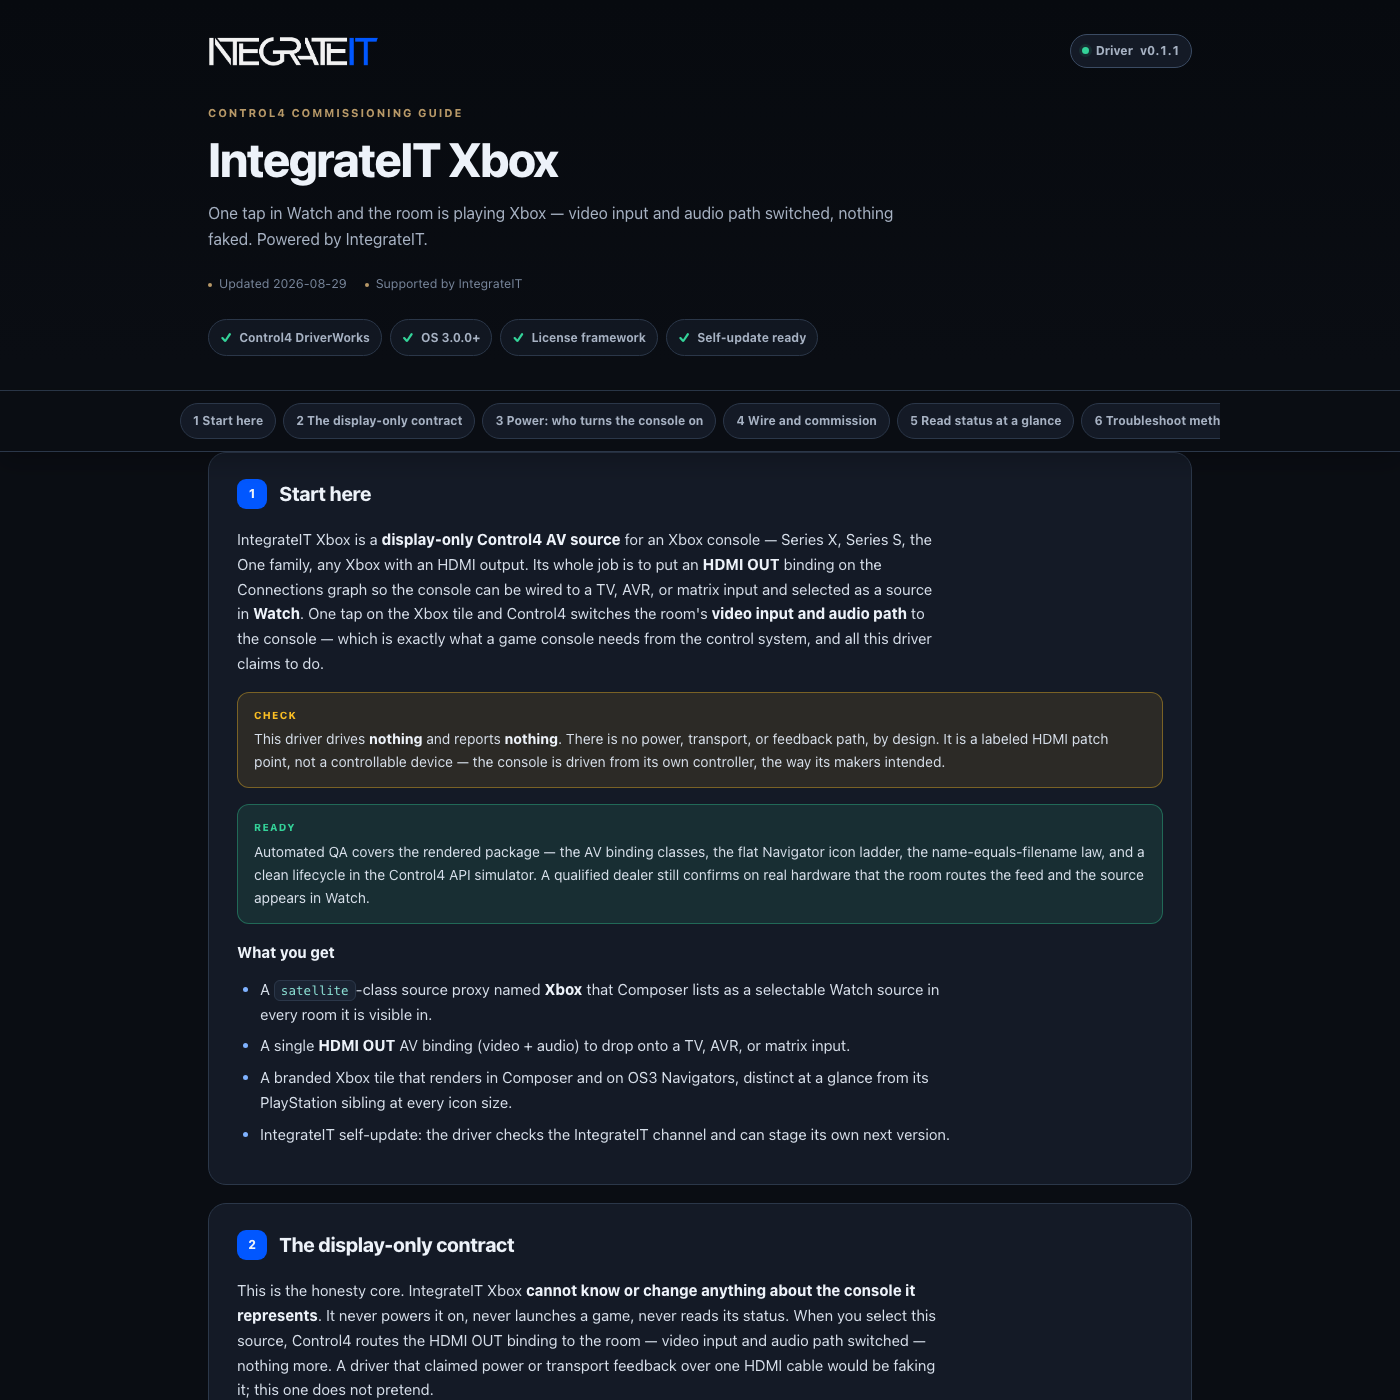
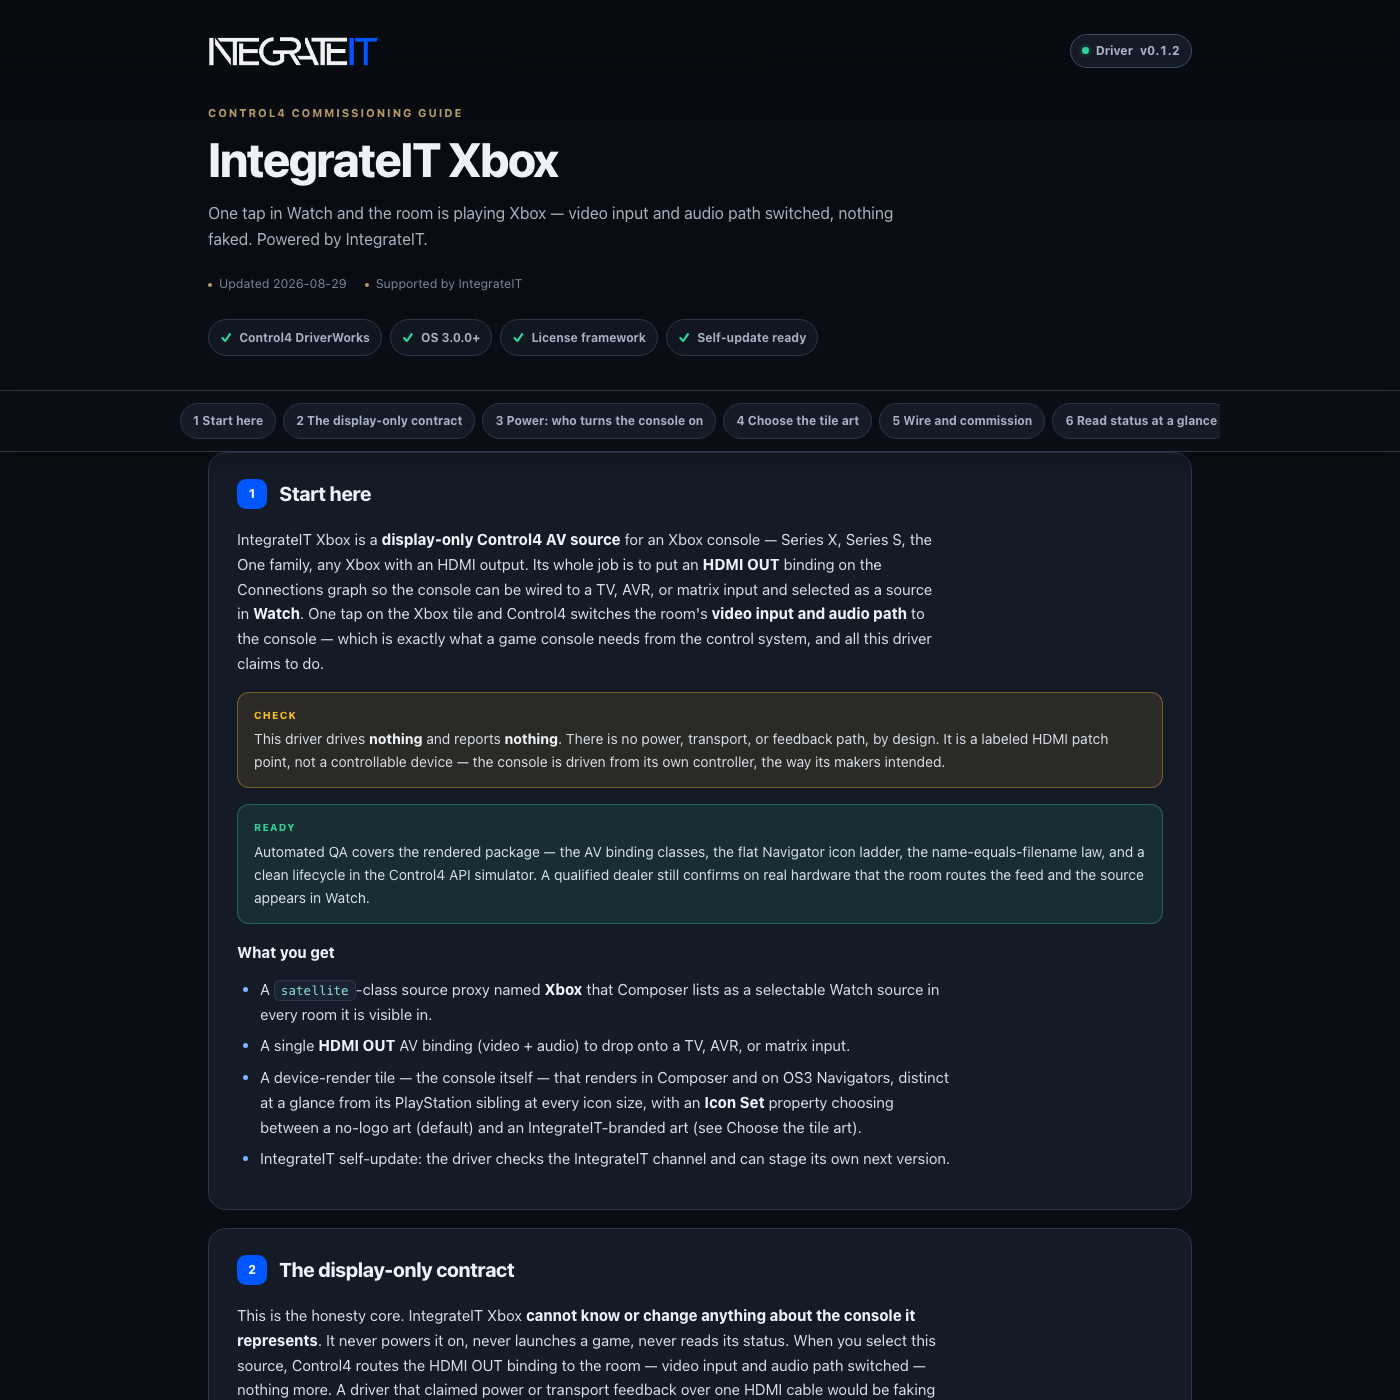
control4: publish driver channel (integrateit_xbox 0.1.2)

Changed region(s): [[0.1536, 0.86, 0.6757, 1.0], [0.1843, 0.7679, 0.6757, 0.8293], [0.5529, 0.2764, 0.86, 0.3071]]

diff --git a/control4/integrateit_xbox/documentation.html b/control4/integrateit_xbox/documentation.html
@@ -179,7 +179,7 @@ td code{white-space:normal}
     <div class="wrap">
       <div class="brandbar">
[1 lines of base64/hex data omitted]
-        <span class="version"><span class="word">Driver</span> v0.1.1</span>
+        <span class="version"><span class="word">Driver</span> v0.1.2</span>
       </div>
       <p class="eyebrow">Control4 commissioning guide</p>
       <h1>IntegrateIT Xbox</h1>
@@ -198,7 +198,7 @@ td code{white-space:normal}
   </header>
 
   <div class="toc-wrap">
-    <nav class="toc wrap" aria-label="Documentation sections"><a href="#overview">1 Start here</a><a href="#one-way">2 The display-only contract</a><a href="#power">3 Power: who turns the console on</a><a href="#setup">4 Wire and commission</a><a href="#status">5 Read status at a glance</a><a href="#troubleshooting">6 Troubleshoot methodically</a><a href="#trust">7 Ownership, privacy, and licensing</a><a href="#reference">R Reference</a><a href="#licensing">L Licensing</a><a href="#updates">U Automatic updates</a><a href="#diagnostics">D Diagnostics and self-test</a><a href="#changelog">V Version history</a></nav>
+    <nav class="toc wrap" aria-label="Documentation sections"><a href="#overview">1 Start here</a><a href="#one-way">2 The display-only contract</a><a href="#power">3 Power: who turns the console on</a><a href="#icons">4 Choose the tile art</a><a href="#setup">5 Wire and commission</a><a href="#status">6 Read status at a glance</a><a href="#troubleshooting">7 Troubleshoot methodically</a><a href="#trust">8 Ownership, privacy, and licensing</a><a href="#reference">R Reference</a><a href="#licensing">L Licensing</a><a href="#updates">U Automatic updates</a><a href="#diagnostics">D Diagnostics and self-test</a><a href="#changelog">V Version history</a></nav>
   </div>
 
   <main class="wrap">
@@ -211,7 +211,7 @@ td code{white-space:normal}
   <ul>
     <li>A <code>satellite</code>-class source proxy named <b>Xbox</b> that Composer lists as a selectable Watch source in every room it is visible in.</li>
     <li>A single <b>HDMI OUT</b> AV binding (video + audio) to drop onto a TV, AVR, or matrix input.</li>
-    <li>A branded Xbox tile that renders in Composer and on OS3 Navigators, distinct at a glance from its PlayStation sibling at every icon size.</li>
+    <li>A device-render tile — the console itself — that renders in Composer and on OS3 Navigators, distinct at a glance from its PlayStation sibling at every icon size, with an <b>Icon Set</b> property choosing between a no-logo art (default) and an IntegrateIT-branded art (see Choose the tile art).</li>
     <li>IntegrateIT self-update: the driver checks the IntegrateIT channel and can stage its own next version.</li>
   </ul>
 </section>
@@ -232,8 +232,22 @@ td code{white-space:normal}
   <p>The practical room recipe: leave the console in Sleep, tap <b>Xbox</b> in Watch (room video + audio switch to it), pick up the controller and press the Xbox button. Two presses, and the second one is the one gamers already do.</p>
 </section>
 
+<section class="card" id="icons" data-card="icons">
+  <h2><span class="n">4</span> Choose the tile art</h2>
+  <p>The driver ships <b>two tile arts</b> and an <b>Icon Set</b> property to pick between them:</p>
+  <ul>
+    <li><b>Device Only (No Logo)</b> — the default. Every tile is just the console itself on the dark IntegrateIT ground.</li>
+    <li><b>IntegrateIT Branded</b> — the same console render with the IntegrateIT wordmark added on the large (300 px and up) tiles. Smaller tiles are identical in both sets — a wordmark shrunk to a watch-tile size would be unreadable, so there is nothing to switch down there.</li>
+  </ul>
+  <p>Changing the property swaps the live tile files in place, inside the driver's own package, through Control4's File Interface — no re-install, no different <code>.c4z</code>. Two things to know:</p>
+  <ol class="steps">
+    <li><b>Navigator caches are stubborn.</b> After switching, run <b>File ▸ Refresh Navigators</b>; force-close the mobile app or reboot T3–T4 touchscreens if a tile lingers. Same refresh order as any icon change.</li>
+    <li><b>The choice survives driver updates.</b> An update re-extracts the package (which resets the tile files to the shipped set), and the driver re-asserts your chosen set on every boot — so the property stays true without anyone remembering it exists.</li>
+  </ol>
+</section>
+
 <section class="card" id="setup" data-card="setup">
-  <h2><span class="n">4</span> Wire and commission</h2>
+  <h2><span class="n">5</span> Wire and commission</h2>
   <ol class="steps">
     <li>Physically connect the Xbox's HDMI output to the room's input — a TV input, an AVR input, or a <b>matrix input</b> (directly, or through an extender). Note which input it lands on.</li>
     <li>In Composer Pro, add the driver. <b>Keep the <code>.c4z</code> named exactly as shipped</b> — the icon URLs embed the driver name, and a renamed file (a browser's <code>name (1).c4z</code>) loads fine but shows a blank icon.</li>
@@ -245,12 +259,12 @@ td code{white-space:normal}
 </section>
 
 <section class="card" id="status" data-card="status">
-  <h2><span class="n">5</span> Read status at a glance</h2>
-  <p><b>Status</b> shows <code>Idle</code> — there is nothing else for it to report. The standard IntegrateIT properties (Driver Version, self-update, licensing) behave as they do in every IntegrateIT driver; see Reference. No property on this driver reflects the state of the console, because the driver cannot see it.</p>
+  <h2><span class="n">6</span> Read status at a glance</h2>
+  <p><b>Status</b> shows <code>Idle</code>, changing only to confirm an Icon Set switch (with the Navigator refresh reminder) before the next boot returns it to <code>Idle</code>. The standard IntegrateIT properties (Driver Version, self-update, licensing) behave as they do in every IntegrateIT driver; see Reference. No property on this driver reflects the state of the console, because the driver cannot see it.</p>
 </section>
 
 <section class="card" id="troubleshooting" data-card="troubleshooting">
-  <h2><span class="n">6</span> Troubleshoot methodically</h2>
+  <h2><span class="n">7</span> Troubleshoot methodically</h2>
   <ul>
     <li><b>Nothing appears in Watch</b> — the source was never bound. Re-check Connections: the <b>HDMI OUT</b> binding must land on the input the console actually feeds.</li>
     <li><b>Blank / no-signal on selection</b> — an EDID mismatch. Set that matrix input's EDID to <b>4K30</b> or <b>1080p</b>; a Series X pushes 4K60/120 with HDR and can out-run a display or a long HDMI run.</li>
@@ -262,14 +276,15 @@ td code{white-space:normal}
 </section>
 
 <section class="card" id="trust" data-card="trust">
-  <h2><span class="n">7</span> Ownership, privacy, and licensing</h2>
+  <h2><span class="n">8</span> Ownership, privacy, and licensing</h2>
   <p>Nothing leaves the controller. This driver opens no network connection, holds no credentials, and logs nothing about the console — there is nothing for it to send. Licensing runs in the shared IntegrateIT framework: because the driver has no actuating path, <b>no function is license-gated</b> — a missing or invalid key never disables it. Self-update polls the IntegrateIT channel and can stage the next version for a one-click install in Composer.</p>
 <section class="card" id="reference" data-card="reference">
   <h2><span class="n">R</span> Reference</h2>
-  <p>Generated from the driver manifest at build time — always matches this build (v0.1.1).</p>
+  <p>Generated from the driver manifest at build time — always matches this build (v0.1.2).</p>
   <h3>Properties</h3>
   <table>
     <tr><th>Property</th><th>Type</th><th>Default</th><th>Description</th></tr>
+    <tr><td><code>Icon Set</code></td><td>LIST</td><td><code>Device Only (No Logo)</code></td><td>Which Navigator tile art the large sizes use. Device Only (No Logo) shows just the console; IntegrateIT Branded adds the IntegrateIT wordmark on the 300 px and larger tiles (smaller tiles are identical in both sets). After changing: File &gt; Refresh Navigators, then force-close the mobile app / reboot T3-T4 touchscreens if a tile lingers. The choice re-applies itself after every driver update. One of: Device Only (No Logo) · IntegrateIT Branded</td></tr>
   </table>
   <p><b>Standard IntegrateIT properties</b> — licensing, self-update, and diagnostics, auto-injected into every IntegrateIT driver:</p>
   <table>
@@ -368,7 +383,9 @@ td code{white-space:normal}
     <section class="card" id="changelog" data-card="changelog">
   <h2><span class="n">V</span> Version history</h2>
   <div class="chg">
-    <div class="rel"><b>v0.1.1</b> <span class="pill green">current</span><span class="d">2026-08-29</span>
+    <div class="rel"><b>v0.1.2</b> <span class="pill green">current</span><span class="d">2026-08-29</span>
+      <ul><li>New Icon Set property (Composer &gt; driver properties): Device Only (No Logo) — now the default, every tile is just the console — or IntegrateIT Branded (adds the IntegrateIT wordmark on the 300px+ tiles). The switch swaps the live tile files in place through Control4's File Interface (OS 3.3.0 C4Z alias), tells you the Navigator refresh order in Status, and re-asserts your choice after every driver update. Only the large tiles differ; watch-tile sizes are identical device-only art in both sets.</li></ul></div>
+    <div class="rel"><b>v0.1.1</b><span class="d">2026-08-29</span>
       <ul><li>Navigator tile is now the device itself: an original vector render of the Xbox Series X monolith — green vent-dot glow on the top face, power dot, disc slot — replacing the 0.1.0 typographic XBOX mark. No manufacturer logo artwork; xml_version bump forces the Navigator icon refresh.</li></ul></div>
     <div class="rel"><b>v0.1.0</b><span class="d">2026-08-29</span>
       <ul><li>First release. Display-only AV source (branded-av-source template): satellite proxy named "Xbox" + one HDMI OUT binding (HDMI + STEREO), so selecting the console in Watch switches the room's video input and audio path.</li><li>Branded Xbox tile across the full Navigator AV icon ladder (driver-local generator; distinct from the PlayStation sibling at every size).</li><li>Deliberately NO power control: consoles have no reliable one-cable power protocol — wake from the controller / HDMI-CEC. Network wake-on-select is a roadmap item, append-only if it can be made reliable.</li></ul></div>

diff --git a/control4/integrateit_xbox/CHANGELOG.md b/control4/integrateit_xbox/CHANGELOG.md
@@ -1,5 +1,8 @@
 # Changelog — IntegrateIT Xbox
 
+## [0.1.2] - 2026-08-29
+- New Icon Set property (Composer > driver properties): Device Only (No Logo) — now the default, every tile is just the console — or IntegrateIT Branded (adds the IntegrateIT wordmark on the 300px+ tiles). The switch swaps the live tile files in place through Control4's File Interface (OS 3.3.0 C4Z alias), tells you the Navigator refresh order in Status, and re-asserts your choice after every driver update. Only the large tiles differ; watch-tile sizes are identical device-only art in both sets.
+
 ## [0.1.1] - 2026-08-29
 - Navigator tile is now the device itself: an original vector render of the Xbox Series X monolith — green vent-dot glow on the top face, power dot, disc slot — replacing the 0.1.0 typographic XBOX mark. No manufacturer logo artwork; xml_version bump forces the Navigator icon refresh.
 
